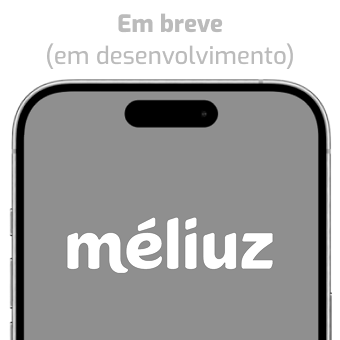
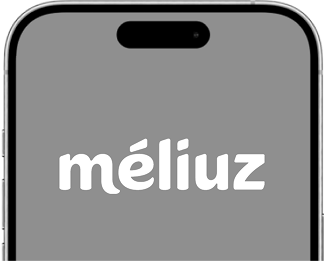
implementando a funcionalidade nos cases: Underconstruction

diff --git a/src/components/CaseNav/CaseNav.tsx b/src/components/CaseNav/CaseNav.tsx
@@ -1,33 +1,109 @@
 import { Link } from 'react-router-dom';
+import { useMemo, useState, useCallback } from 'react';
 import styles from './casenav.module.scss';
 import { CaseNavInterface } from '../../interfaces/components';
 import successIcon from '../../assets/svgs/sucesso.svg';
 import awardIcon from '../../assets/svgs/Medalha.svg';
-import { useState } from 'react';
 
-function CaseNav({ caseValue, path, text, bgColor, imgHover, projectName }: CaseNavInterface) {
+function CaseNav({
+    caseValue,
+    path,
+    text,
+    bgColor,
+    imgHover,
+    projectName,
+    isUnderConstruction = false,
+    underConstructionImg
+}: CaseNavInterface) {
+
+    // Controla o estado de hover do componente
     const [isHovered, setIsHovered] = useState(false);
+
+    // Define o estilo de fundo baseado no hover e se está em construção
+    const backgroundStyle = useMemo(() => {
+        if (!isHovered) return {};
+        return {
+            backgroundColor: isUnderConstruction ? '#FFFFFF' : bgColor,
+            cursor: isUnderConstruction ? 'not-allowed' : 'pointer'
+        };
+    }, [isHovered, bgColor, isUnderConstruction]);
+
+    // Define o alinhamento do conteúdo baseado no hover
+    const contentStyle = useMemo(() => {
+        return {
+            justifyContent: isHovered ? 'space-between' : 'center'
+        };
+    }, [isHovered]);
+
+    // Determina qual texto exibir baseado no estado de hover e construção
+    const displayText = useMemo(() => {
+        // Lógica normal para quando não está em construção
+        if (!isUnderConstruction) {
+            return isHovered ? projectName : text;
+        }
+        // Para items em construção: texto normal quando não está em hover
+        return isHovered ? null : text;
+    }, [isHovered, projectName, text, isUnderConstruction]);
+
+    // Seleciona a imagem a ser exibida (padrão ou em construção)
+    const getImageSource = useMemo(() => {
+        if (isUnderConstruction && underConstructionImg) {
+            return underConstructionImg;
+        }
+        return imgHover;
+    }, [imgHover, isUnderConstruction, underConstructionImg]);
+
+    // Define o texto do tipo de case (sucesso ou premiado)
+    const caseTypeText = useMemo(() => {
+        return caseValue === 'sucesso' ? 'Case de Sucesso' : 'Case Premiado';
+    }, [caseValue]);
+
+    // Define qual ícone usar baseado no tipo de case
+    const caseIconSrc = useMemo(() => {
+        return caseValue === 'sucesso' ? successIcon : awardIcon;
+    }, [caseValue]);
+
+    // Função para ativar o estado de hover
+    const handleMouseEnter = useCallback(() => setIsHovered(true), []);
+    
+    // Função para desativar o estado de hover
+    const handleMouseLeave = useCallback(() => setIsHovered(false), []);
+
+    // Previne a navegação quando o item estiver em construção
+    const handleClick = useCallback((e: React.MouseEvent) => {
+        if (isUnderConstruction) {
+            e.preventDefault();
+        }
+    }, [isUnderConstruction]);
 
     return (
         <Link
             to={path}
             className={styles.caseNav}
-            style={isHovered ? { backgroundColor: bgColor } : {}}
-            onMouseEnter={() => setIsHovered(true)}
-            onMouseLeave={() => setIsHovered(false)}
+            style={backgroundStyle}
+            onMouseEnter={handleMouseEnter}
+            onMouseLeave={handleMouseLeave}
+            onClick={handleClick}
         >
             <div
                 className={styles.caseContent}
-                style={{ justifyContent: isHovered ? 'space-between' : 'center' }}
+                style={contentStyle}
             >
-                <p className={isHovered ? styles.textHover : styles.textNormal}>
-                    {isHovered ? projectName : text}
-                </p>
+                {isUnderConstruction && isHovered ? (
+                    <div className={styles.underConstructionText}>
+                        <strong>Em breve</strong>
+                        <span>(em desenvolvimento)</span>
+                    </div>
+                ) : (
+                    <p className={isHovered ? styles.textHover : styles.textNormal}>
+                        {displayText}
+                    </p>
+                )}
 
                 {isHovered && imgHover && (
                     <div className={styles.imageWrapper}>
                         <img
-                            src={imgHover}
+                            src={getImageSource}
                             alt={caseValue || 'projeto'}
                             className={styles.hoverImg}
                         />
@@ -36,22 +112,15 @@ function CaseNav({ caseValue, path, text, bgColor, imgHover, projectName }: Case
             </div>
 
             {caseValue && (
-                <div style={{
-                    position: 'absolute',
-                    bottom: '10%',
-                    left: '0',
-                    right: '0',
-                    display: 'flex',
-                    justifyContent: 'center'
-                }}>
+                <div className={styles.caseIndicator}>
                     <img
-                        src={caseValue === 'sucesso' ? successIcon : awardIcon}
+                        src={caseIconSrc}
                         alt={`Caso ${caseValue}`}
                         className={styles.caseIcon}
                     />
-                    {caseValue && isHovered && (
+                    {isHovered && (
                         <p className={styles.caseTypeIndicator}>
-                            {caseValue === 'sucesso' ? 'Case de Sucesso' : 'Case Premiado'}
+                            {caseTypeText}
                         </p>
                     )}
                 </div>

diff --git a/src/components/CasePanel/CasePanel.tsx b/src/components/CasePanel/CasePanel.tsx
@@ -3,23 +3,48 @@ import { CasesInterface } from '../../interfaces/case';
 import { CasesData } from '../../services/casesData';
 import { Link, useLocation } from 'react-router-dom';
 import styles from './casepanel.module.scss';
-import { useState } from 'react';
+import { useState, useCallback } from 'react';
 
-function CasePanel({ data, nome, projeto }: CasePanelInterface) {
+function CasePanel({ data, nome, projeto, isUnderConstruction = false }: CasePanelInterface) {
 
     const location = useLocation();
     const currentPath = location.pathname;
     const [hoveredId, setHoveredId] = useState<number | null>(null);
 
-    const getCurrentCaseId = () => {
+    // Obtém o ID do case atual a partir da URL
+    const getCurrentCaseId = useCallback(() => {
         if (currentPath.startsWith('/case/')) {
             const id = currentPath.split('/').pop();
             return id ? Number(id) : null;
         }
         return null;
-    };
+    }, [currentPath]);
 
     const currentCaseId = getCurrentCaseId();
+
+    // Previne a navegação quando o painel ou o case específico estiver em construção
+    const handleClick = useCallback((e: React.MouseEvent, caseItem: CasesInterface) => {
+        if (isUnderConstruction || caseItem.underConstruction) {
+            e.preventDefault();
+        }
+    }, [isUnderConstruction]);
+
+    // Determina o estilo com base no estado do item
+    const getItemStyle = useCallback((isActive: boolean, isHovered: boolean, caseItem: CasesInterface) => {
+        const itemUnderConstruction = isUnderConstruction || caseItem.underConstruction;
+
+        // Se estiver em construção, apenas altera o cursor para not-allowed
+        if (itemUnderConstruction) {
+            return { cursor: 'not-allowed' };
+        }
+
+        // Se não estiver em construção, o comportamento normal de hover/active se aplica
+        if (isActive || isHovered) {
+            return { backgroundColor: caseItem.bgColor };
+        }
+
+        return {};
+    }, [isUnderConstruction]);
 
     return (
         <div className={styles.container}>
@@ -39,15 +64,17 @@ function CasePanel({ data, nome, projeto }: CasePanelInterface) {
                 {CasesData && CasesData.map((caseItem: CasesInterface, i: number) => {
                     const isActive = currentCaseId === caseItem.id;
                     const isHovered = hoveredId === caseItem.id;
+                    const itemUnderConstruction = isUnderConstruction || caseItem.underConstruction;
 
                     return (
                         <Link
                             key={i}
                             to={`/case/${caseItem.id}`}
-                            className={`${styles.caseNav} ${isActive ? styles.active : ''}`}
-                            style={isActive || isHovered ? { backgroundColor: caseItem.bgColor } : {}}
+                            className={`${styles.caseNav} ${isActive ? styles.active : ''} ${itemUnderConstruction ? styles.underConstruction : ''}`}
+                            style={getItemStyle(isActive, isHovered, caseItem)}
                             onMouseEnter={() => setHoveredId(caseItem.id)}
                             onMouseLeave={() => setHoveredId(null)}
+                            onClick={(e) => handleClick(e, caseItem)}
                         >
                             {caseItem.id}
                         </Link>
@@ -58,4 +85,4 @@ function CasePanel({ data, nome, projeto }: CasePanelInterface) {
     )
 }
 
-export default CasePanel
+export default CasePanel;

diff --git a/src/services/casesData.ts b/src/services/casesData.ts
@@ -1,8 +1,11 @@
 import { CasesInterface } from "../interfaces/case";
 import case1img from '../assets/cases/case1.webp';
 import case2img from '../assets/cases/case2.webp';
+import case2imgOff from '../assets/cases/case2off.png';
 import case3img from '../assets/cases/case3.webp';
+import case3imgOff from '../assets/cases/case3off.png';
 import case4img from '../assets/cases/case4.webp';
+import case4imgOff from '../assets/cases/case4off.png';
 
 export const CasesData:CasesInterface[] = [
     {
@@ -22,7 +25,9 @@ export const CasesData:CasesInterface[] = [
         projeto:'E-commerce App Bemol',
         path:'case-2',
         bgColor:'#F23434',
-        imgHover: case3img
+        imgHover: case3img,
+        underConstruction:true,
+        underConstructionImg:case2imgOff
     },
     {
         id:3,
@@ -31,7 +36,9 @@ export const CasesData:CasesInterface[] = [
         projeto:'Doação de Cashback',
         path:'case-3',
         bgColor:'#ED387B',
-        imgHover: case1img
+        imgHover: case1img,
+        underConstruction:true,
+        underConstructionImg:case3imgOff
     },
     {
         id:4,
@@ -41,7 +48,9 @@ export const CasesData:CasesInterface[] = [
         path:'case-4',
         tipoDeCase:'premiado',
         bgColor:'#386681',
-        imgHover: case4img
+        imgHover: case4img,
+        underConstruction:true,
+        underConstructionImg:case4imgOff
     },
 ]
 

diff --git a/src/components/CaseNav/casenav.module.scss b/src/components/CaseNav/casenav.module.scss
@@ -90,15 +90,50 @@
     width: 35%;
 }
 
+.caseIndicator {
+    position: absolute;
+    bottom: 10%;
+    left: 0;
+    right: 0;
+    display: flex;
+    justify-content: center;
+}
+
+.underConstructionText {
+    display: flex;
+    flex-direction: column;
+    align-items: center;
+    justify-content: center;
+    text-align: center;
+    font-size: 24px;
+    font-weight: 500;
+    margin: 8px 55px 7px 55px;
+    height: 30%;
+    color: #BBBBBB;
+
+    strong {
+        font-weight: 500;
+        display: block;
+        line-height: 1.2;
+    }
+
+    span {
+        font-size: 18px;
+        opacity: 0.8;
+        display: block;
+        line-height: 1.2;
+    }
+}
+
 @keyframes show {
     0% {
         opacity: 0;
-        transform:translateX(-50px);
+        transform: translateX(-50px);
     }
 
     100% {
         opacity: 1;
-        transform:translateX(0);
+        transform: translateX(0);
     }
 }
 

diff --git a/src/interfaces/components.ts b/src/interfaces/components.ts
@@ -20,6 +20,8 @@ export interface CaseNavInterface extends LinkInterface {
     bgColor: string
     imgHover:string
     projectName:string
+    isUnderConstruction?: boolean
+    underConstructionImg?:string
 }
 
 export interface CasePanelInterface {
@@ -27,6 +29,7 @@ export interface CasePanelInterface {
     projeto: string;
     data:string
     bgColor:string
+    isUnderConstruction?:boolean
 }
 
 export interface ToolsIconInterface{

diff --git a/src/pages/home/Home.tsx b/src/pages/home/Home.tsx
@@ -34,6 +34,8 @@ function Home() {
               bgColor={caseItem.bgColor}
               imgHover={caseItem.imgHover}
               projectName={caseItem.projeto}
+              isUnderConstruction={caseItem.underConstruction}
+              underConstructionImg={caseItem.underConstructionImg}
             />
           ))}
       </div>

diff --git a/src/components/CasePanel/casepanel.module.scss b/src/components/CasePanel/casepanel.module.scss
@@ -51,7 +51,7 @@
     color: var(--fadeTextColor);
 }
 
-.caseNav{
+.caseNav {
     width: 40px;
     height: 40px;
     padding: 10px;
@@ -65,6 +65,11 @@
 
 
 
-.active{
+.active {
     font-weight: bolder;
+}
+
+.underConstruction {
+    opacity: 0.8;
+    pointer-events: auto;
 }

diff --git a/src/interfaces/case.ts b/src/interfaces/case.ts
@@ -6,7 +6,9 @@ export interface CasesInterface {
     path: string
     data: string
     bgColor: string,
-    imgHover: string
+    imgHover: string,
+    underConstruction?: boolean,
+    underConstructionImg?: string
 }
 
 export interface pushNotificationsInterface {
